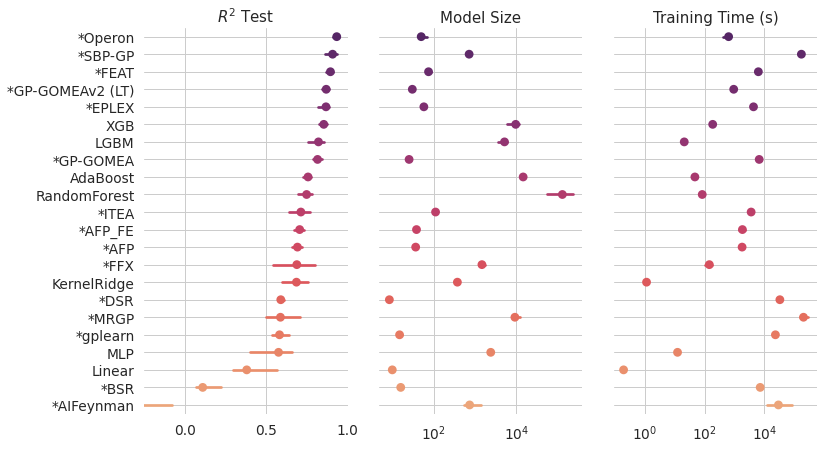
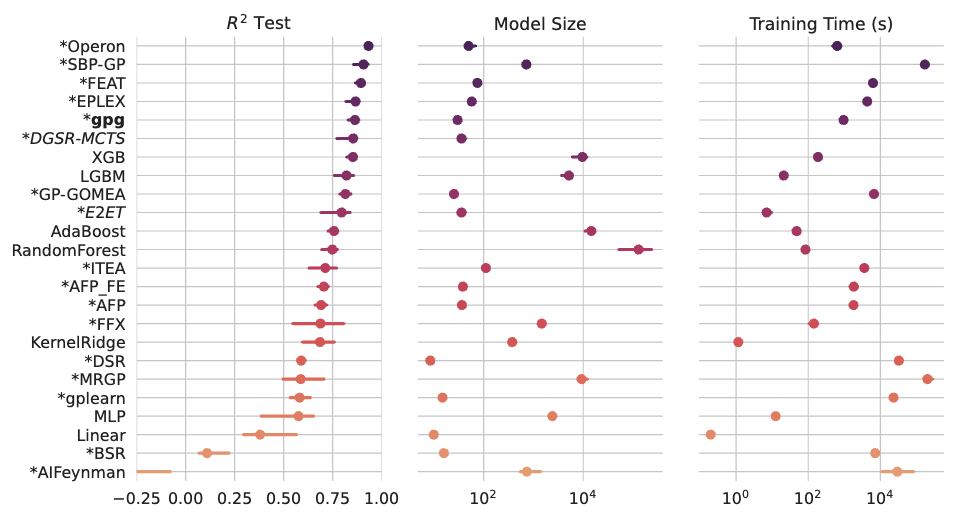
srbench

diff --git a/try.py b/try.py
@@ -1,87 +1,58 @@
 import numpy as np
 from pygpg.sk import GPGRegressor
+from pygpg.complexity import compute_complexity
 from sklearn.metrics import r2_score, mean_squared_error
-from sklearn.model_selection import GridSearchCV
+from sklearn.model_selection import train_test_split
 
-np.random.seed(42)
+RANDOM_SEED = 42
+np.random.seed(RANDOM_SEED)
 
+X = np.random.randn(128, 3)*10
 
-X = np.random.randn(24, 3)*10
-
-def grav_law(X):
-  return 6.67 * X[:,0]*X[:,1]/(np.square(X[:,2]))
+def grav_law(X : np.ndarray) -> np.ndarray:
+    """Ground-truth function for the gravity law."""
+    return 6.67 * X[:,0]*X[:,1]/(np.square(X[:,2])) + np.random.randn(X.shape[0])*0.1 # some noise
 
 y = grav_law(X)
 
-#from sklearn.datasets import load_boston
-from sklearn.preprocessing import StandardScaler as SS
-from sklearn.model_selection import train_test_split
+X_train, X_test, y_train, y_test = train_test_split(X, y, test_size=0.5, random_state=RANDOM_SEED)
 
-#X, y = load_boston(return_X_y=True)
+gpg = GPGRegressor(
+  e=50_000,                   # 50,000 evaluations limit for search
+  t=-1,                       # no time limit,
+  g=-1,                       # no generation limit,
+  d=3,                        # maximum tree depth
+  finetune=True,              # whether to fine-tune the coefficients after the search
+  finetune_max_evals=10_000,  # 10,000 evaluations limit for fine-tuning
+  verbose=True,               # print progress
+  random_state=RANDOM_SEED,   # for reproducibility
+)
+#gpg = GPGRegressor(
+#  t=10, g=-1, e=100000, disable_ims=False, pop=512,
+#  fset="+,-,*,/,sqrt,log,sin,cos", ff="ac",
+#  nolink=False, feat_sel=False, no_large_fos=True, bs=512,
+#  d=5, rci=0.05, finetune=False, verbose=True, tour=4, random_state=42, cmp=0.0
+#)
 
+gpg.fit(X_train,y_train)
+print(
+  "Best found:",
+  gpg.model, 
+  "(complexity: {})".format(compute_complexity(gpg.model, complexity_metric="node_count")))
+print("Train\t\tR2: {}\t\tMSE: {}".format(
+  np.round(r2_score(y_train, gpg.predict(X_train)), 3),
+  np.round(mean_squared_error(y_train, gpg.predict(X_train)), 3),
+))
+print("Test\t\tR2: {}\t\tMSE: {}".format(
+  np.round(r2_score(y_test, gpg.predict(X_test)), 3),
+  np.round(mean_squared_error(y_test, gpg.predict(X_test)), 3),
+))
 
-"""
-Load 618_fri_c3_1000_50
-"""
-
-hyper_params = [
-    { # 1
-     'd' : (3,), 'rci' : (0.0,),
-    },
-    { # 2
-     'd' : (4,), 'rci' : (0.0, 0.1),
-    },
-    { # 2
-     'd' : (5,), 'rci' : (0.0, 0.1,),
-    },
-    { # 1
-     'd' : (6,), 'rci' : (0.1,),  'no_univ_exc_leaves_fos' : (True,),
-    },
-]
-
-# load poker
-import pandas as pd
-df = pd.read_csv("../pmlb/datasets/618_fri_c3_1000_50/618_fri_c3_1000_50.tsv.gz", compression='gzip', sep='\t')
-X = df.drop(columns=['target']).to_numpy()
-y = df['target'].to_numpy()
-
-X_train, X_test, y_train, y_test = train_test_split(X, y, test_size=0.25, random_state=23654)
-s = SS()
-X_train = s.fit_transform(X_train)
-X_test = s.transform(X_test)
-y_train = s.fit_transform(y_train.reshape((-1,1)))
-y_test = s.transform(y_test.reshape((-1,1)))
-
-
-from sklearn.base import clone
-
-#g = GPGRegressor(t=7200, g=-1, e=500000, disable_ims=True, pop=1024, fset="+,-,*,/,sqrt,log,sin,cos", ff="ac",
-#  nolink=False, feat_sel=10, no_large_fos=True, bs=100,
-#  d=4, rci=0.0, finetune=False, verbose=True, tour=4, random_state=42, cmp=0.0)
-
-#
-g = GPGRegressor(t=7200, g=-1, e=499500, tour=4, d=5,
-        disable_ims=True, pop=1024, nolink=True, feat_sel=16,
-        no_large_fos=True, no_univ_exc_leaves_fos=False,
-        finetune=True, 
-        verbose=True,
-        bs=2048,
-        fset='+,-,*,/,log,sqrt,sin,cos', cmp=0.1, rci=0.0,
-        random_state=23654)  
-from sklearn.model_selection import KFold
-cv = KFold(n_splits=10, shuffle=True,random_state=23654)
-
-from sklearn.experimental import enable_halving_search_cv # noqa
-from sklearn.model_selection import HalvingGridSearchCV
-grid_est = GridSearchCV(g, param_grid=hyper_params, cv=cv, verbose=0, n_jobs=1, scoring='r2', error_score=0.0)
-grid_est.fit(X_train, y_train)
-g = grid_est.best_estimator_
-#g.fit(X_train,y_train)
-print(g.model)
-p = g.predict(X_test)
-print(r2_score(y_train, g.predict(X_train)), mean_squared_error(y_train, g.predict(X_train)))
-print(r2_score(y_test, p), mean_squared_error(y_test, p))
 quit()
+
+
+
+
 from sklearn.experimental import enable_halving_search_cv # noqa
 from sklearn.model_selection import GridSearchCV
 

diff --git a/src/ims.hpp b/src/ims.hpp
@@ -43,7 +43,7 @@ struct IMS {
 
       float f = it->second->fitness;
       float c = it->first;
-      
+
       if (f > max_fit)
         max_fit = f;
       if (f < min_fit)
@@ -170,14 +170,16 @@ struct IMS {
 
   void reevaluate_elites() {
     for(auto it = elites_per_complexity.begin(); it != elites_per_complexity.end(); it++) {
+      float fit_before = it->second->fitness;
       g::fit_func->get_fitness(it->second);
     }
   }
 
   void update_elites(vector<Node*>& population) {
     for (Node * tree : population){
-      float c = compute_complexity(tree);
       // determine if to insert this among elites and eliminate now-obsolete elites
+      float c = compute_complexity(tree);
+      // firstly, check if current tree is equal or worse than an existing elite
       bool worse_or_equal_than_existing = false;
       vector<float> obsolete_complexities; obsolete_complexities.reserve(elites_per_complexity.size());
       for(auto it = elites_per_complexity.begin(); it != elites_per_complexity.end(); it++) {
@@ -187,6 +189,7 @@ struct IMS {
           break;
         }
         // check if a previous elite became obsolete
+        // i.e. complexity is equal or less, but fitness is better
         if (c <= it->first && tree->fitness < it->second->fitness) {
           obsolete_complexities.push_back(it->first);
         }  

diff --git a/src/pypkg/pygpg/sk.py b/src/pypkg/pygpg/sk.py
@@ -5,6 +5,7 @@ import sys, os
 import inspect
 import numpy as np
 import sympy
+import pandas as pd
 
 sys.path.insert(0, os.path.join(
     os.path.dirname(os.path.dirname(os.path.realpath(__file__))), 'pygpg'))
@@ -69,7 +70,14 @@ class GPGRegressor(BaseEstimator, RegressorMixin):
   def fit(self, X, y):
     # setup cpp interface
     cpp_options = self._create_cpp_option_string()
-
+    
+    # conver to numpy if it is a pandas dataframe
+    if isinstance(X, pd.DataFrame):
+      X = X.values
+      
+    if isinstance(y, pd.Series):
+      y = y.values
+    
     # impute if needed
     if np.isnan(X).any():
       self.imputer, X = imputing.fit_and_apply_imputation(X)
@@ -116,6 +124,9 @@ class GPGRegressor(BaseEstimator, RegressorMixin):
     
 
   def _pick_best_model(self, X, y, models):
+    
+    
+    
     # simplify (with stopping)
     if hasattr(self, "verbose") and self.verbose:
       print(f"simplifying {len(models)} models...")
@@ -166,6 +177,9 @@ class GPGRegressor(BaseEstimator, RegressorMixin):
     if model is None:
       # assume implicitly wanted the best one found at fit
       model = self.model
+      
+    if isinstance(X, pd.DataFrame):
+      X = X.values
 
     # deal with a model that was simplified to a simple constant
     if type(model) == sympy.Float or type(model) == sympy.Integer:

diff --git a/src/variation.hpp b/src/variation.hpp
@@ -100,17 +100,20 @@ Node * coeff_mut(Node * parent, bool return_copy=true, vector<int> * changed_ind
       if (
         n->op->type() == OpType::otConst &&
         Rng::randu() < g::cmut_prob
-        ) {
-
+      ) {
         float prev_c = ((Const*)n->op)->c;
         float std = g::cmut_temp*abs(prev_c);
         if (std < g::cmut_eps)
           std = g::cmut_eps;
         float mutated_c = roundd(prev_c + Rng::randn()*std, NUM_PRECISION); 
         ((Const*)n->op)->c = mutated_c;
+        // case in which we are going through GOM
         if (changed_indices != NULL) {
-          changed_indices->push_back(i);
-          backup_ops->push_back(new Const(prev_c));
+          // add the backup node only if this wasn't changed previously
+          if (find(changed_indices->begin(), changed_indices->end(), i) == changed_indices->end()) {
+            changed_indices->push_back(i);
+            backup_ops->push_back(new Const(prev_c));
+          };
         }
       }
     }

diff --git a/src/fitness.hpp b/src/fitness.hpp
@@ -161,8 +161,8 @@ struct AbsCorrFitness : Fitness {
 
     float fitness = 1.0-abs(corr(y, out));
     // Below, the < 0 can happen due to float overflow, while 
-    // the = 0 is meant to penalize constants as much as broken solutions
-    if (isnan(fitness) || fitness <= 0) 
+    // the ==1 is meant to penalize constants as much as broken solutions
+    if (isnan(fitness) || fitness < 0 || fitness == 1) 
       fitness = INF;
     n->fitness = roundd(fitness, NUM_PRECISION + 2);
 

diff --git a/src/pypkg/setup.py b/src/pypkg/setup.py
@@ -13,5 +13,5 @@ setup (name = 'pygpg',
        packages=['pygpg'],
 	package_data={'pygpg': ['_pb_gpg.so']},
        include_package_data=True,
-       install_requires=['scikit-learn', 'sympy'],
+       install_requires=['scikit-learn', 'sympy', 'pandas'],
        )

diff --git a/src/evolution.hpp b/src/evolution.hpp
@@ -75,6 +75,7 @@ struct Evolution {
     // replace parent with offspring population
     clear_population(population);
     population = offspring_population;
+
     ++gen_number;
   }
 

diff --git a/README.md b/README.md
@@ -1,7 +1,63 @@
 # gpg
 Re-implementation of GP-GOMEA (Python scikit-learn-compatible interface, C++ backend).
 This version of the code features only GP-GOMEA and no other algorithms (differently from the [previous repo](https://github.com/marcovirgolin/GP-GOMEA)) and focuses on symbolic regression alone.
-Also, this version uses dependencies that are easier and less finicky to install (see [environment.yml](environment.yml)). 
+Also, this version uses dependencies that are easier and less finicky to install (see [environment.yml](environment.yml)).
+
+## Installation
+Installation requires [git](https://github.com/git-guides/install-git) and [conda](https://www.anaconda.com/download).
+Run the following bash commands from a folder of your choice:
+```bash
+git clone https://github.com/marcovirgolin/gpg.git
+cd gpg
+conda env create -f environment.yml
+conda activate gpg
+make
+```
+
+## Usage
+You can try `gpg` out with the following code snippet (or simply run `try.py` if you like):
+```python
+import numpy as np
+from pygpg.sk import GPGRegressor
+from pygpg.complexity import compute_complexity
+from sklearn.metrics import r2_score, mean_squared_error
+from sklearn.model_selection import train_test_split
+
+RANDOM_SEED = 42
+np.random.seed(RANDOM_SEED)
+
+X = np.random.randn(128, 3)*10
+
+def grav_law(X : np.ndarray) -> np.ndarray:
+    """Ground-truth function for the gravity law."""
+    return 6.67 * X[:,0]*X[:,1]/(np.square(X[:,2])) + np.random.randn(X.shape[0])*0.1 # some noise
+
+y = grav_law(X)
+
+X_train, X_test, y_train, y_test = train_test_split(X, y, test_size=0.5, random_state=RANDOM_SEED)
+
+gpg = GPGRegressor(
+  e=50_000,                   # 50,000 evaluations limit
+  t=-1,                       # no time limit,
+  g=-1,                       # no generation limit,
+  d=3,                        # maximum tree depth
+  verbose=True,               # print progress
+  random_state=RANDOM_SEED,   # for reproducibility
+)
+gpg.fit(X_train,y_train)
+
+print(
+  gpg.model, 
+  "(complexity: {})".format(compute_complexity(gpg.model, complexity_metric="node_count")))
+print("Train\t\tR2: {}\t\tMSE: {}".format(
+  np.round(r2_score(y_train, gpg.predict(X_train)), 3),
+  np.round(mean_squared_error(y_train, gpg.predict(X_train)), 3),
+))
+print("Test\t\tR2: {}\t\tMSE: {}".format(
+  np.round(r2_score(y_test, gpg.predict(X_test)), 3),
+  np.round(mean_squared_error(y_test, gpg.predict(X_test)), 3),
+))
+```
 
 ## Differences w.r.t. previous version
 This version has some differences compared to the code in the [previous repo](https://github.com/marcovirgolin/GP-GOMEA).
@@ -19,41 +75,11 @@ Here's a list:
 
 
 ## Results on SRBench
-Running this version on SRBench (GP-GOMEAv2) leads to expressions that are as compact but more accurate than those of the original GP-GOMEA, in much less time!
+Running this version on SRBench (`gpg`) leads to expressions that are as compact but more accurate than those of the original `GP-GOMEA`, in much less time!
 
 <img src=pics/srbench.png alt="blackbox_results" width=800px />
-<img src=pics/srbench_pareto.png alt="pareto_results" width=800px />
+<img src=pics/srbench_harmonic.png alt="harmonic_means" width=800px />
 
-The hyper-parameter options used are:
-
-```python
-hyper_params = [
-    { # 1
-     'd' : (3,), 'rci' : (0.0,),
-    },
-    { # 2
-     'd' : (4,), 'rci' : (0.0, 0.1),
-    },
-    { # 2
-     'd' : (5,), 'rci' : (0.0, 0.1,),
-    },
-    { # 1
-     'd' : (6,), 'rci' : (0.1,),  'no_univ_exc_leaves_fos' : (True,),
-    },
-]
-
-est = GPGR(t=2*60*60, g=-1, e=499500,
-        tour=4, d=4,
-        disable_ims=True, pop=1024, feat_sel=16,
-        no_large_fos=True, no_univ_exc_leaves_fos=False,
-        finetune=True, 
-        bs=2048,
-        fset='+,-,*,/,log,sqrt,sin,cos', 
-        cmp=0.0, 
-        rci=0.0,
-        random_state=0
-        )
-```
 
 ## Research
 If you use our code for academic purposes, please support our research by citing:
